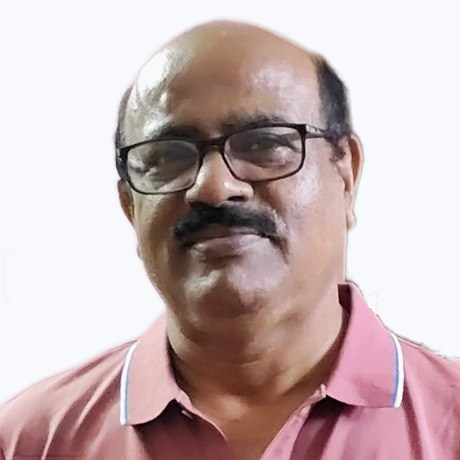
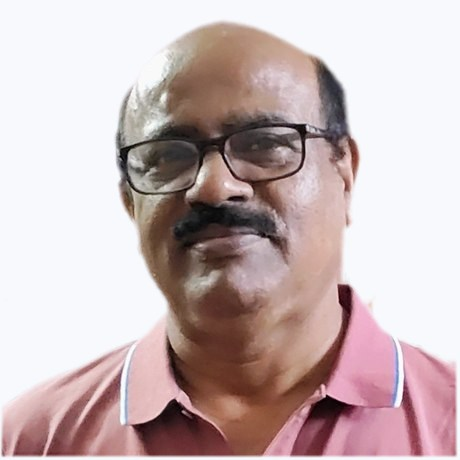
Add Subhendu Pattnaik as partner; update experience and portraits

diff --git a/about.html b/about.html
@@ -101,7 +101,7 @@
         <p>Rooftop solar is one of the few things an Indian household can buy that pays for itself and then keeps paying. That is precisely why the market around it filled up so quickly with people selling it badly — inflated quotations, B-grade modules passed off as new, subsidy figures quoted as though they were guaranteed, and installers who stop answering the phone the week after commissioning.</p>
         <p>Bright Solar Engineering was set up to do the unglamorous version of this business properly. We are an authorised dealer for Waaree and V-Guard, and we install what we sell. We carry two brands instead of ten deliberately: a dealer who stocks whatever is cheapest this month cannot tell you how a module actually ages in coastal heat and salt air, and cannot get a warranty claim moving when one fails.</p>
 
-        <p>That view comes from a long time in the trade. Our partner spent more than thirty years in electricals and sales — most of that career with Havells — before retiring and starting this business. A career spent selling and standing behind electrical equipment teaches you which corners get cut, which specifications quietly matter, and what a customer discovers two years after the installer has gone.</p>
+        <p>That view comes from a long time in the trade. Both partners came to solar after full careers elsewhere — one after thirty-five years in electricals and sales, most of it with Havells; the other after forty-five years in automobile sales, retiring as a General Manager with Mahindra. Eighty years between them of selling equipment, standing behind it, and running the people who service it. It teaches you which corners get cut, which specifications quietly matter, and what a customer discovers two years after the installer has gone.</p>
         <p>Most of the difference between a system that still makes its numbers in year twenty and one that quietly underperforms from year two is decided before anything is bolted down — in the shadow study, the string layout, the structure specification and the earthing. None of it is visible from the road, and none of it appears as a line you can compare between two quotations. That is the part we take seriously.</p>
         <p>We supply <span data-site="serviceArea">across the state</span> from our showroom in <span data-site="town">Pipili</span>, and our own installation and service teams treat <span data-site="serviceAreaHome">the surrounding districts</span> as their daily ground. For a site further out we will tell you plainly, before you commit, how long a service call will take to reach you. A warranty is only ever as good as the distance between you and the person honouring it, and we would rather you knew that number in advance than discovered it in year four.</p>
       </div>
@@ -130,7 +130,7 @@
 <section class="section">
   <div class="wrap">
     <div class="section-head center reveal">
-      <span class="eyebrow">The person behind it</span>
+      <span class="eyebrow">The people behind it</span>
       <h2 data-grid-heading>Who you will be dealing with</h2>
       <p class="lede" data-grid-intro></p>
     </div>

diff --git a/assets/js/config.js b/assets/js/config.js
@@ -224,15 +224,40 @@ const SITE = {
            It is deliberately about PRICING AND ADVICE, not about
            service call-outs, because that is the part of the business
            you personally answer for. Keep it that way. */
-        quote: 'I spent thirty years in the electrical trade before I sold my first solar panel. ' +
-               'It taught me that the cheapest quotation is very rarely the cheapest system.',
+        quote: 'I spent thirty-five years in the electrical trade before I sold my first solar ' +
+               'panel. It taught me that the cheapest quotation is very rarely the cheapest system.',
 
         /* Naming a former employer is a statement of fact about his career.
            Keep it worded so it never suggests Havells endorses, supplies or
            is connected to this business — it does not. */
-        line: 'Ardhendu spent more than thirty years in electricals and sales, most of that career ' +
-              'with Havells, before retiring. He co-owns Bright Solar Engineering and leads the ' +
-              'commercial side; his survey and installation team handles the work on site.' },
+        line: 'Ardhendu spent thirty-five years in electricals and sales, most of that career with ' +
+              'Havells, before retiring. He co-owns Bright Solar Engineering and leads the ' +
+              'commercial side — pricing, quotations and the subsidy paperwork.',
+        phone: '+91 99370 82488' },
+
+      /* ---- SECOND PARTNER ----
+         PHOTO STILL NEEDED. Save it as  assets/img/team/subhendu-pattnaik.jpg
+         and this card appears. Until then only Ardhendu shows — the
+         renderer drops any portrait whose file is missing.
+
+         The quote below is drafted from his actual career — forty-five
+         years selling and servicing vehicles — and deliberately covers
+         AFTER-SALES, because that is the part of this business he runs.
+         It is still printed in the first person over his face, so read
+         it to him and change any word he would not say himself.        */
+      { src: 'assets/img/team/subhendu-pattnaik.jpg',
+        alt: 'Subhendu Pattnaik, Partner at Bright Solar Engineering',
+        name: 'Subhendu Pattnaik',
+        role: 'Partner & Head of Operations',
+        focus: '50% 50%',
+        quote: 'Forty-five years in automobile sales taught me that the sale is the easy part. ' +
+               'What decides whether a customer comes back is the service in the years afterwards. ' +
+               'Solar is no different.',
+
+        line: 'Subhendu spent forty-five years in automobile sales, retiring as a General Manager ' +
+              'with Mahindra. He runs the day-to-day side of the business — the team, the ' +
+              'operations, and looking after customers once a system is in.',
+        phone: '+91 99386 78255' },
     ]
   },
 

diff --git a/assets/js/main.js b/assets/js/main.js
@@ -283,6 +283,10 @@
     }
 
     const esc = (s) => (s || '').replace(/"/g, '&quot;');
+    // One partner reads best as a wide signed statement; two or more must
+    // be shown as equal cards, or the second looks like an afterthought.
+    root.classList.toggle('people--pair', items.length > 1);
+
     root.innerHTML = items.map(p => `
       <figure class="person">
         <div class="person__shot">
@@ -296,13 +300,21 @@
             ${p.role ? `<span class="person__role">${p.role}</span>` : ''}
           </div>
           ${p.line ? `<p class="person__line">${p.line}</p>` : ''}
+          ${p.phone ? `<a class="person__phone" href="tel:${esc(p.phone).replace(/[^\d+]/g, '')}">
+              <svg viewBox="0 0 24 24" width="15" height="15" fill="none" stroke="currentColor"
+                   stroke-width="2.2" stroke-linecap="round" stroke-linejoin="round" aria-hidden="true"><path d="M22 16.9v3a2 2 0 01-2.2 2 19.8 19.8 0 01-8.6-3.1 19.5 19.5 0 01-6-6A19.8 19.8 0 012.1 4.2 2 2 0 014.1 2h3a2 2 0 012 1.7c.1 1 .4 1.9.7 2.8a2 2 0 01-.5 2.1L8.1 9.9a16 16 0 006 6l1.3-1.2a2 2 0 012.1-.5c.9.3 1.8.6 2.8.7a2 2 0 011.7 2z"/></svg>
+              ${p.phone}</a>` : ''}
         </figcaption>
       </figure>`).join('');
 
     const drop = (img) => {
       const fig = img.closest('.person');
       if (fig) fig.remove();
-      if (!$$('.person', root).length) section.style.display = 'none';
+      const left = $$('.person', root).length;
+      // Re-check the layout: if a portrait 404s we may be back to one
+      // partner, which wants the wide single treatment, not a lone card.
+      root.classList.toggle('people--pair', left > 1);
+      if (!left) section.style.display = 'none';
     };
     $$('img', root).forEach(img => {
       img.addEventListener('error', () => drop(img));

diff --git a/assets/css/style.css b/assets/css/style.css
@@ -691,6 +691,31 @@ input[type=range]::-moz-range-thumb { width: 22px; height: 22px; border: none; b
 }
 /* No quote supplied — drop the signature rule so it doesn't float */
 .person__sig--bare { border-top: none; padding-top: 0; margin-top: 0; }
+
+.person__phone {
+  display: inline-flex; align-items: center; gap: .45rem;
+  margin-top: 1rem; font-weight: 650; font-size: .95rem;
+  color: var(--gold-600);
+}
+.person__phone:hover { text-decoration: underline; }
+
+/* ---- Two or more partners ----
+   The single-person layout is a wide signed statement. That does not
+   work for a pair: side by side, whoever is second reads as staff
+   rather than an equal owner. So with more than one, switch to two
+   matched vertical cards. renderTeam() adds .people--pair. */
+.people--pair { grid-template-columns: 1fr; align-items: start; gap: 1.5rem; }
+.people--pair .person {
+  grid-template-columns: 1fr; justify-items: center; text-align: center;
+  max-width: none; margin-inline: 0; gap: 1.35rem; padding: 2.5rem 1.9rem;
+}
+.people--pair .person__shot { width: 176px; height: 176px; }
+.people--pair .person__quote { font-size: 1.02rem; }
+.people--pair .person__quote::before { display: none; }
+.people--pair .person__sig { justify-content: center; }
+@media (min-width: 880px) {
+  .people--pair { grid-template-columns: 1fr 1fr; gap: 2rem; }
+}
 .person__name { font-family: var(--font-display); font-weight: 750; font-size: 1.12rem; margin: 0; }
 .person__role { font-size: .88rem; font-weight: 600; color: var(--gold-600); letter-spacing: .02em; }
 .person__role::before { content: "— "; }

diff --git a/index.html b/index.html
@@ -76,7 +76,7 @@
   <div class="wrap hero__inner">
     <div>
       <span class="eyebrow">☀ Authorised dealer · Waaree · V-Guard</span>
-      <h1>Rooftop solar for Odisha, backed by <span class="shine">thirty years in electricals</span>.</h1>
+      <h1>Rooftop solar for Odisha, backed by <span class="shine">eighty years in the trade</span>.</h1>
       <span class="hero__tagline" data-site="tagline">Harness the Sun, Empower the Future.</span>
       <p class="hero__sub">
         As an authorised dealer for two of India's most trusted solar names, we supply and install
@@ -387,7 +387,7 @@
   <div class="wrap">
     <div class="section-head center reveal">
       <span class="eyebrow">Who you deal with</span>
-      <h2>And a person who answers when you call</h2>
+      <h2>And the people who answer when you call</h2>
     </div>
     <div class="people" id="teamGrid"></div>
   </div>
